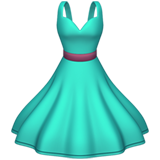
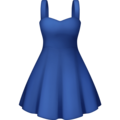
Added Carousel & some fixes

diff --git a/src/App.js b/src/App.js
@@ -1,10 +1,22 @@
-import { Navbar, Categories, PageHeader, Select, Sidebar, Card, Pagination, Footer } from './components'
+import { useState } from 'react'
+import { Carousel, Navbar, Categories, PageHeader, Select, Sidebar, Card, Pagination, Footer } from './components'
 import { products } from './data/products'
 import './styles/App.scss'
 
 export default function App() {
+  const [sorting, setSorting] = useState('default')
+  const pricingSorting = (a, b) => {
+    if (sorting === 'highest')
+      return b.price - a.price
+    else if (sorting === 'lowest')
+      return a.price - b.price
+    else
+      return a.id - b.id
+  }
+
   return (
     <>
+      <Carousel />
       <Navbar />
       <Categories />
       <PageHeader title="Каталог одягу" />
@@ -13,7 +25,11 @@ export default function App() {
           <h3 className="title">Фільтри</h3>
           <div className="d-flex align-items-center sort-select">
             <span className="d-none d-md-block label">Сортувати за:</span>
-            <Select />
+            <Select label="Сортувати" value={sorting} onChange={value => setSorting(value)}>
+              <option value="default">За замовчуванням</option>
+              <option value="highest">Спочатку дорожче</option>
+              <option value="lowest">Спочатку дешевше</option>
+            </Select>
           </div>
         </div>
       </section>
@@ -24,8 +40,8 @@ export default function App() {
           </div>
           <div className="col-12 col-md-8 col-lg-9">
             <div className="row g-24">
-              {products.map((product, i) => (
-                <div key={i} className="col-12 col-md-6 col-lg-4">
+              {products.sort((a, b) => pricingSorting(a, b)).map((product) => (
+                <div key={product.id} className="col-12 col-md-6 col-lg-4">
                   <Card
                     title={product.title}
                     brand={product.brand}

diff --git a/src/data/products.js b/src/data/products.js
@@ -47,6 +47,7 @@ const authors = {
 }
 
 export const products = [{
+  id: 0,
   title: 'Темно-сині джинси Louis Vuitton',
   brand: 'Louis Vuitton',
   img: Product0Img,
@@ -56,6 +57,7 @@ export const products = [{
   location: 'Херсон',
   author: authors.loveBrand
 }, {
+  id: 1,
   title: 'Чорний піджак Thom Browne',
   brand: 'Thom Browne',
   img: Product1Img,
@@ -65,6 +67,7 @@ export const products = [{
   location: 'Хмельницький',
   author: authors.sellForMen
 }, {
+  id: 2,
   title: 'Вовняний піджак Canali',
   brand: 'Canali',
   img: Product2Img,
@@ -73,6 +76,7 @@ export const products = [{
   location: 'Хмельницький',
   author: authors.sellForMen
 }, {
+  id: 3,
   title: 'Клатч Louis Vuitton Limelight',
   brand: 'Louis Vuitton',
   img: Product3Img,
@@ -81,6 +85,7 @@ export const products = [{
   location: 'Дніпро',
   author: authors.brandear
 }, {
+  id: 4,
   title: 'Сумка з декором Elena Ghiselini',
   brand: 'Elena Ghiselini',
   img: Product4Img,
@@ -90,6 +95,7 @@ export const products = [{
   location: 'Дніпро',
   author: authors.brandear
 }, {
+  id: 5,
   title: 'Бомбер Acne на блискавці',
   brand: 'Acne',
   img: Product5Img,
@@ -98,6 +104,7 @@ export const products = [{
   location: 'Київ',
   author: authors.alexalex
 }, {
+  id: 6,
   title: 'Довга сукня Gucci',
   brand: 'Gucci',
   img: Product6Img,
@@ -106,6 +113,7 @@ export const products = [{
   location: 'Рівне',
   author: authors.sellBuy
 }, {
+  id: 7,
   title: 'Помаранчевий бомбер Woolrich',
   brand: 'Chanel',
   img: Product7Img,
@@ -114,6 +122,7 @@ export const products = [{
   location: 'Кроповницький',
   author: authors.deevaSofia
 }, {
+  id: 8,
   title: 'Салатове пальто Hache',
   brand: 'Hache',
   img: Product8Img,

diff --git a/src/components/Carousel.js b/src/components/Carousel.js
@@ -1,0 +1,35 @@
+import { ThumbsUp, Dress, Flower, Fire } from '../images/emoji/'
+
+const slides = [{
+  background: '#cbdcff',
+  title: 'Брендовий верхній одяг від 899 грн',
+  icons: [ThumbsUp, Dress],
+  active: true
+}, {
+  background: '#ffdef3',
+  title: 'Весняні знижки до 50%',
+  icons: [Flower, Fire]
+}]
+
+export default function Carousel() {
+  return (
+    <div className="carousel slide carousel-fade" data-bs-ride="carousel">
+      <div className="carousel-inner">
+        {slides.map((slide, i) => (
+          <div
+            key={i}
+            className={`carousel-item ${slide.active ? 'active' : ''} d-flex justify-content-center align-items-center`}
+            style={{background: slide.background}}
+            data-bs-interval="5000"
+          >
+            <div className="icon-row">
+              <img src={slide.icons[0]} alt="*" />
+              <img src={slide.icons[1]} alt="*" />
+            </div>
+            <h5 className="title">{slide.title}</h5>
+          </div>
+        ))}
+      </div>
+    </div>
+  )
+}

diff --git a/src/styles/App.scss b/src/styles/App.scss
@@ -8,7 +8,31 @@ a {
   }
 }
 
+.carousel {
+  .carousel-item {
+    .title {
+      margin-top: 10px;
+      margin-bottom: 10px;
+      font-size: 16px;
+      color: #0f1a34;
+    }
+
+    .icon-row {
+      & > :first-child { transform: rotate(-30deg); }
+      & > :last-child { transform: rotate(30deg); }
+      
+      img {
+        width: 24px;
+        height: 24px;
+        margin-right: 10px;
+      }
+    }
+  }
+}
+
 .navbar {
+  padding: 0;
+
   .container {
     padding-top: 12px;
     padding-bottom: 12px;
@@ -458,6 +482,15 @@ footer {
 }
 
 @media (max-width: 576px) {
+  .carousel {
+    .carousel-item {
+      .title { font-size: 12px; }
+      .icon-row img {
+        width: 18px;
+        height: 18px;
+      }
+    }
+  }
   .search-bar {
     & > * { margin: 4px 0; }
     & > :first-child { margin-top: 0; }

diff --git a/src/components/Select.js b/src/components/Select.js
@@ -1,10 +1,10 @@
 import { ChevronSelect } from '../images/icons/'
 
-export default function Select() {
+export default function Select({ label, value, onChange, children }) {
   return (
     <div className="position-relative sort-select">
-      <select className="form-select" defaultValue="замовчування" aria-label="Сортувати">
-        <option value="замовчування">За замовчуванням</option>
+      <select className="form-select" value={value} aria-label={label} onChange={e => onChange(e.target.value)}>
+        {children}
       </select>
       <span className="select-chevron">
         <img src={ChevronSelect} alt="⌄" />

diff --git a/src/components/Card.js b/src/components/Card.js
@@ -1,11 +1,14 @@
+import { useState } from 'react'
 import formatThousands from 'format-thousands'
 import { MapPin, Like } from '../images/icons/'
 
 export default function Card({ title, brand, img, price, oldPrice, badge, tag, location, author }) {
+  const [liked, setLiked] = useState(false)
+
   return (
     <div className="card h-100">
       <div className="card-header position-relative">
-        <button className="btn btn-like">
+        <button className="btn btn-like" onClick={() => setLiked(!liked)}>
           <img src={Like} height="16" alt="Зберегти" />
         </button>
         <img src={img} alt="Product" />

diff --git a/src/components/Navbar.js b/src/components/Navbar.js
@@ -5,7 +5,7 @@ import { Heart, MessageBulb, ShoppingCart } from '../images/icons/'
 
 export default function Navbar() {
   return (
-    <nav className="navbar navbar-expand-lg bg-light">
+    <nav className="navbar navbar-expand-lg bg-light sticky-top">
       <div className="container position-relative">
         <span className="navbar-divider border-bottom"></span>
         <a className="navbar-brand" href="/">

diff --git a/src/components/index.js b/src/components/index.js
@@ -1,3 +1,4 @@
+import Carousel from './Carousel'
 import Navbar from './Navbar'
 import SearchBar from './SearchBar'
 import Categories from './Categories'
@@ -12,6 +13,7 @@ import Pagination from './Pagination'
 import Footer from './Footer'
 
 export { 
+  Carousel,
   Navbar,
   SearchBar,
   Categories,

diff --git a/src/images/emoji/index.js b/src/images/emoji/index.js
@@ -1,0 +1,6 @@
+import ThumbsUp from './thumbs-up.png'
+import Dress from './dress.png'
+import Flower from './flower.png'
+import Fire from './fire.png'
+
+export { ThumbsUp, Dress, Flower, Fire }
